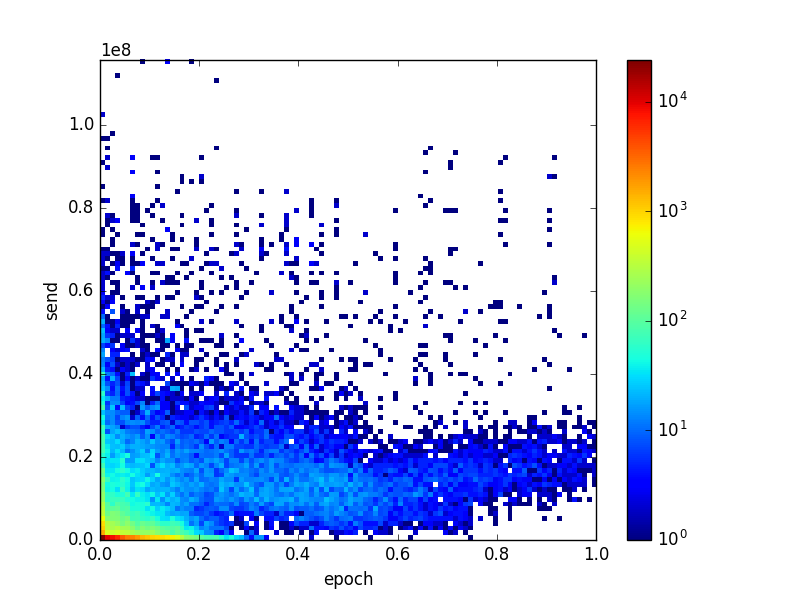
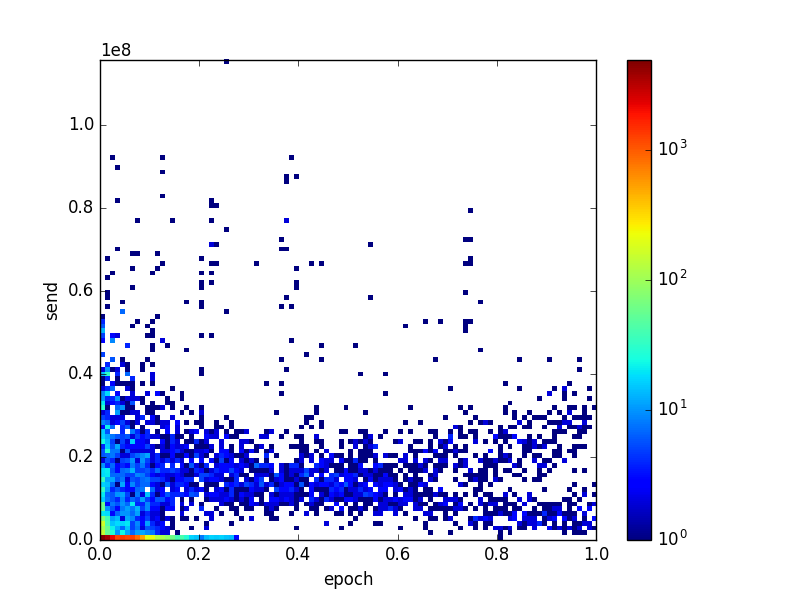
used changed to used_mem and used_swp, datasets with bad_jobs = {} now not plotted

diff --git a/webinterface/StatsParser.py b/webinterface/StatsParser.py
@@ -37,16 +37,13 @@ def parse_stats(jsonpath, logpath):
     dsnLst = []
     summaryPile = {}
     for dsname in summary.keys():
-        print
-
         sample = summary[dsname]
         cms4nevts = 0
         dbsnevts = counts[dsname]["dbs"]
 
-        #in_logObjPIle = False
-        #logObjPile = {} #Note_1: if you use this delete [tagged with Remove(1)] other instance of this in "if dbsnevts != cms4nevts" statement
+        in_logObjPIle = False
+        logObjPile = {}
         bad_jobs = {}
-        #Optional: add tqdm tag here for progress bars
         for iout in sample.keys():
             job = sample[iout]
 
@@ -69,35 +66,13 @@ def parse_stats(jsonpath, logpath):
                 "events":nevents
             }
 
-            #in_logObjPile = True
-            #logObjPile = plotter.get_json_files(logObjPile, job[condor_jobs], ".out", logpath) #See Note_1
-            #summaryPile = updt_summary(summaryPile, dsname, bad_jobs, (dbsnevts-cms4nevts), pltpaths, logObjPile) #See Note_1
+            in_logObjPile = True
+            logObjPile = plotter.get_json_files(logObjPile, condor_jobs, ".out", logpath)
 
-            #Remove(1) all of these print commands
-            print "[{0}] Job {1} is not done. Retried {2} times.".format(dsname, iout, retries)
-            print "   --> {0} inputs with a total of {1} events".format(len(inputs),nevents)
-    #        if retries >= 1:
-    #            print "   --> Previous condor logs:"
-    #            for ijob in range(len(condor_jobs)-1):
-    #               outlog = condor_jobs[ijob]["logfile_out"]
-    #               errlog = condor_jobs[ijob]["logfile_err"]
-    #               print "       - {0}".format(errlog)
-    #
-        if dbsnevts != cms4nevts #and in_logObjPile:
+        if dbsnevts != cms4nevts and in_logObjPile == True:
             print "Dataset {0} is missing {1} events (DBS: {2}, CMS4: {3})".format(
                     dsname, dbsnevts-cms4nevts, dbsnevts, cms4nevts
                     )
-
-            #Remove(1)
-            logObjPile = {}
-            
-            #Remove(1) from here -------------------
-            print("Plotting...")
-            for iout in tqdm(sample.keys()):
-                #Pass current log dictionary, original log file locations (job["condor jobs"]), desired log file type, and current log file location to plotter
-                logObjPile = plotter.get_json_files(logObjPile, sample[iout]["condor_jobs"], ".out", logpath)
-            #until here ----------------------------
-
             #Plot data from bad runs
             try:
                 #Plot Functions:
@@ -115,13 +90,19 @@ def parse_stats(jsonpath, logpath):
                     All plot functions return a string to __plotname__.png file in local directory named 'static'
                 '''
                 pltpaths = []
+                #CPU
                 pltpaths.append(plotter.plot_2DHist(logObjPile, dsname, "epoch", "usr", 100, 1))
+                pltpaths.append(plotter.plot_2DHist(logObjPile, dsname, "epoch", "sys", 100, 1))
+                #Network
                 pltpaths.append(plotter.plot_2DHist(logObjPile, dsname, "epoch", "send", 100, 1))
                 pltpaths.append(plotter.plot_2DHist(logObjPile, dsname, "epoch", "recv", 100, 1))
+                #Memory
+                pltpaths.append(plotter.plot_2DHist(logObjPile, dsname, "epoch", "used_mem", 100, 1))
+                pltpaths.append(plotter.plot_2DHist(logObjPile, dsname, "epoch", "buff", 100, 1))
 
-                #Remove(1)
                 #Summary pile stores information to be displayed with graph
                 summaryPile = updt_summary(summaryPile, dsname, bad_jobs, (dbsnevts-cms4nevts), pltpaths, logObjPile)
+
             except ValueError as error:
                 pass
 

diff --git a/webinterface/LogParser.py b/webinterface/LogParser.py
@@ -42,6 +42,11 @@ def log_parser(logName):
                     elif "usr" in splitLine[0]:
                         for i in splitLine:
                             trim = i.split("\"") #getLine
+                            if trim[1] == "used":
+                                if "used_mem" not in headers:
+                                    trim[1] = "used_mem"
+                                else:
+                                    trim[1] = "used_swp"
                             headers.append(trim[1])
                         for i in headers:
                             logDict[i] = []

diff --git a/webinterface/Plotter.py b/webinterface/Plotter.py
@@ -202,4 +202,3 @@ def plot_Profile(logObjPile, title, xkey, ykey, bins, norm_toggle):
 if __name__ == "__main__":
     fPile = get_log_files("/home/jguiang/ProjectMetis/log_files/tasks", ".out")
     logObjPile = tqdm_parse_log_files(fPile)
-
